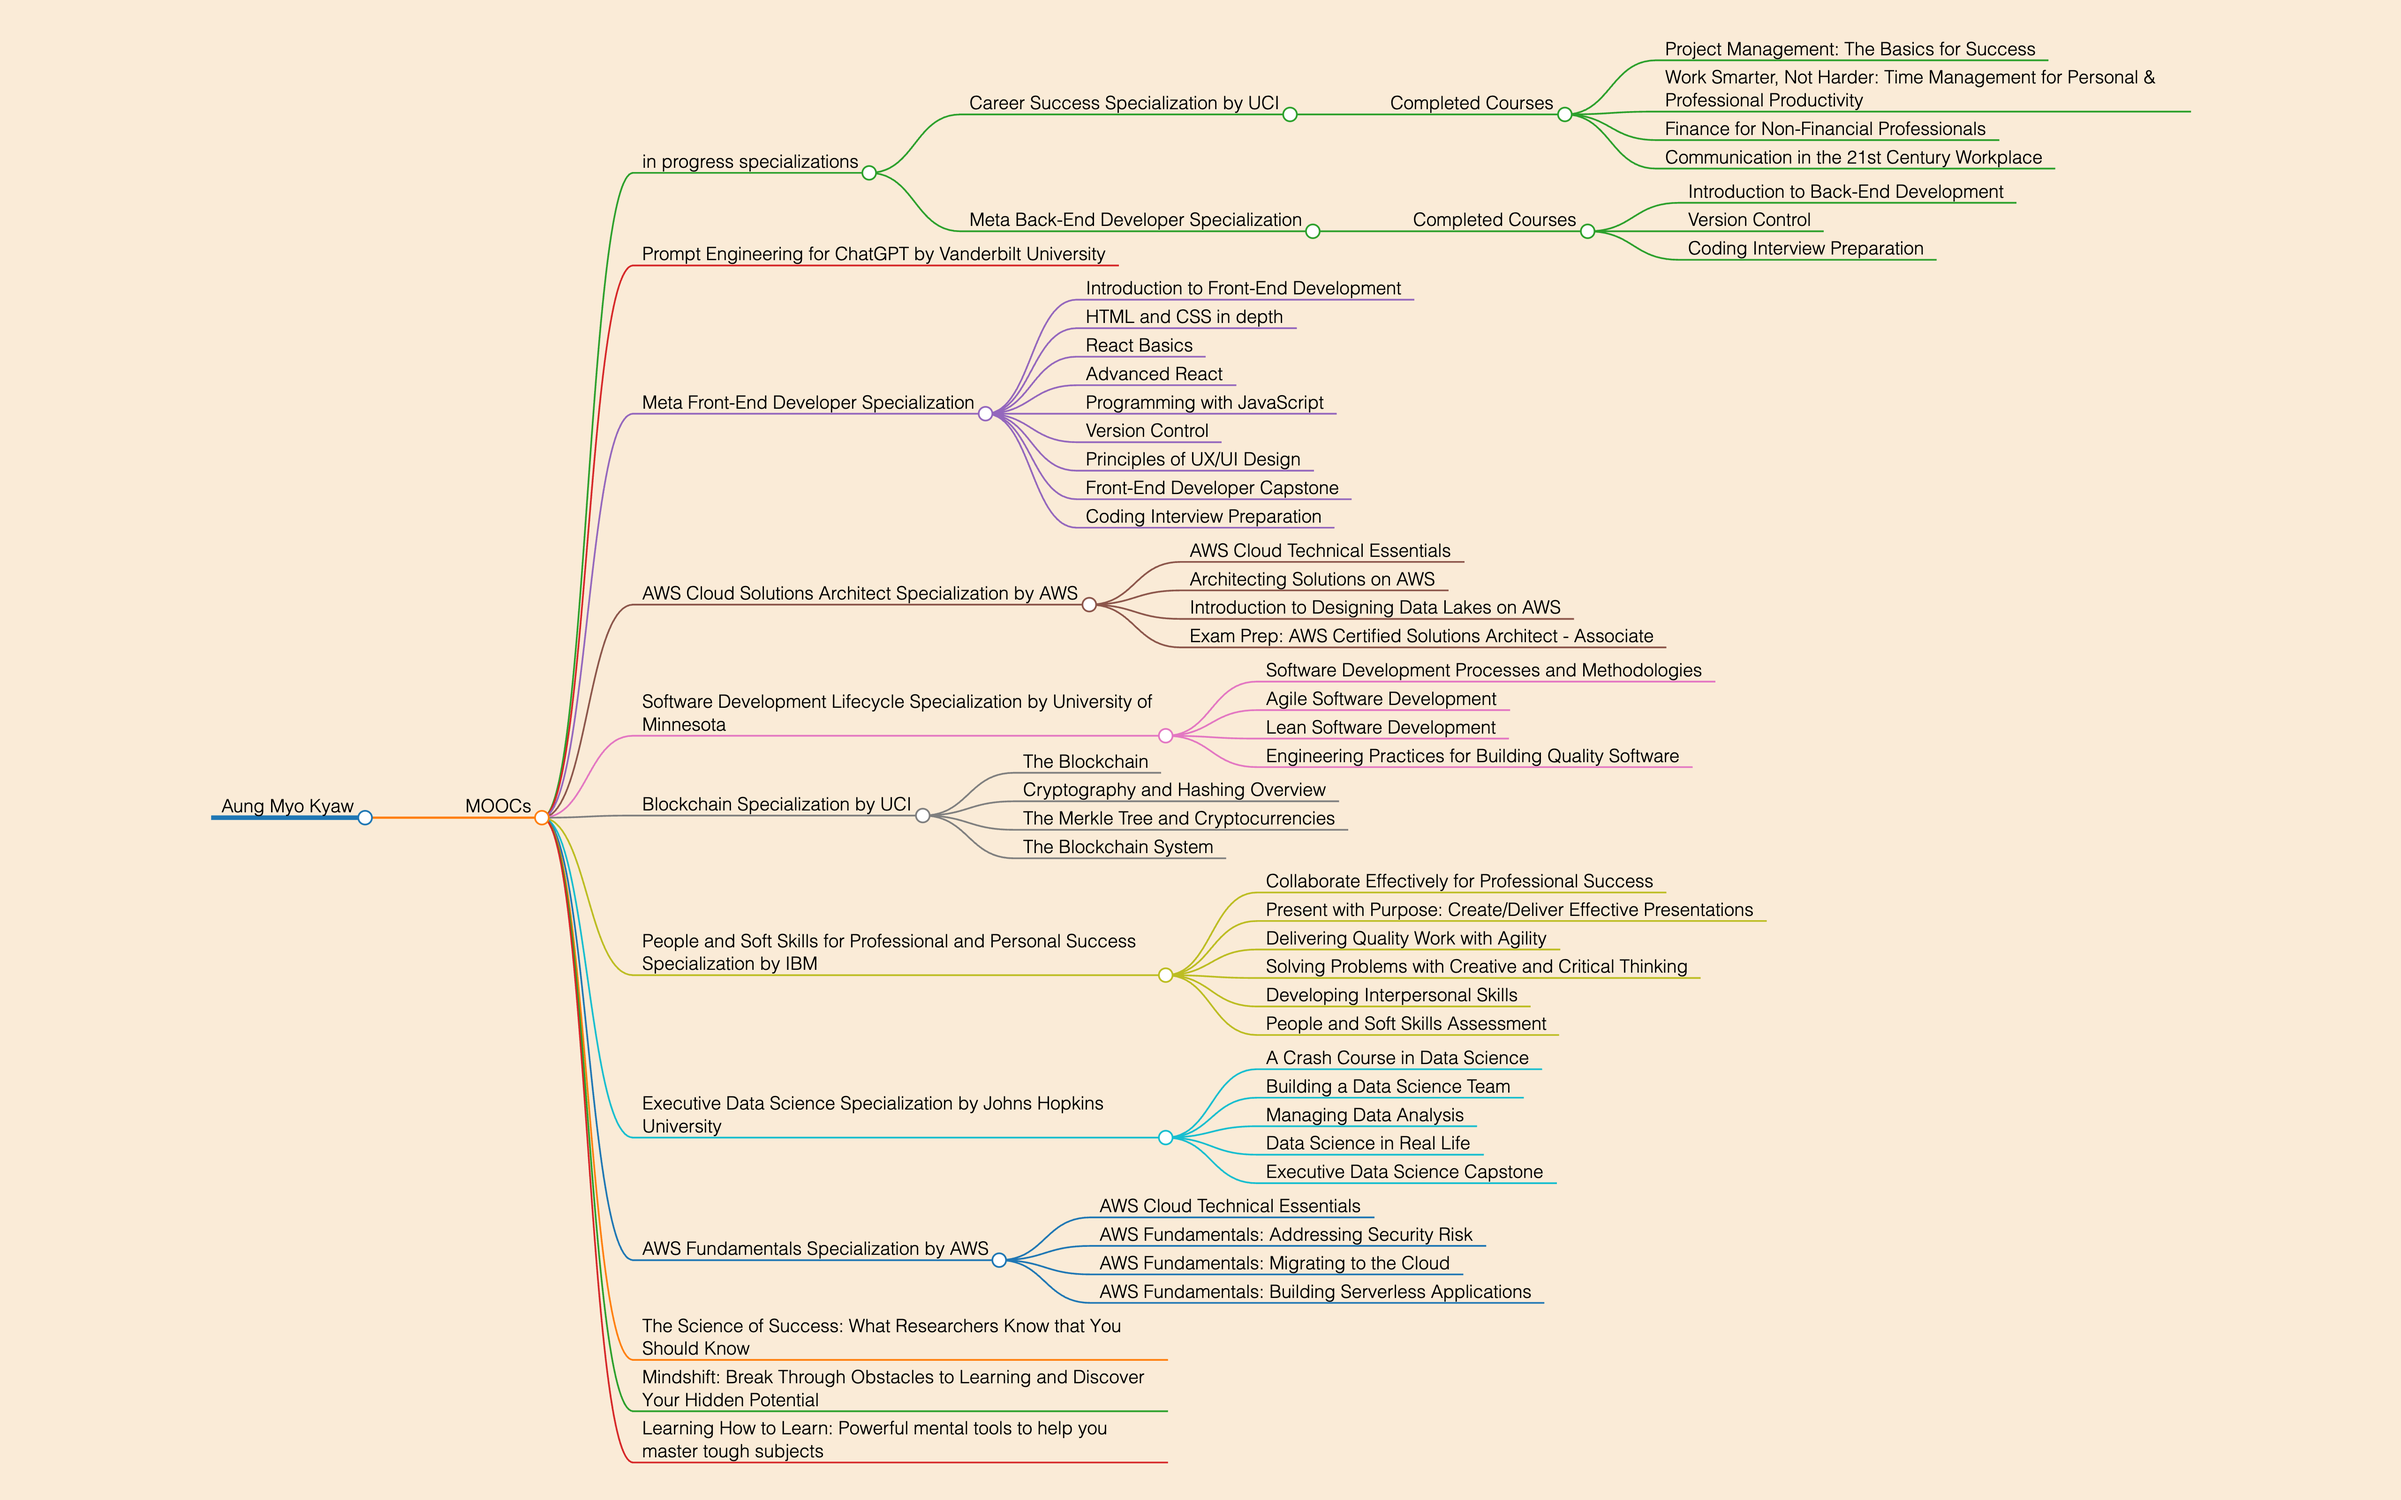
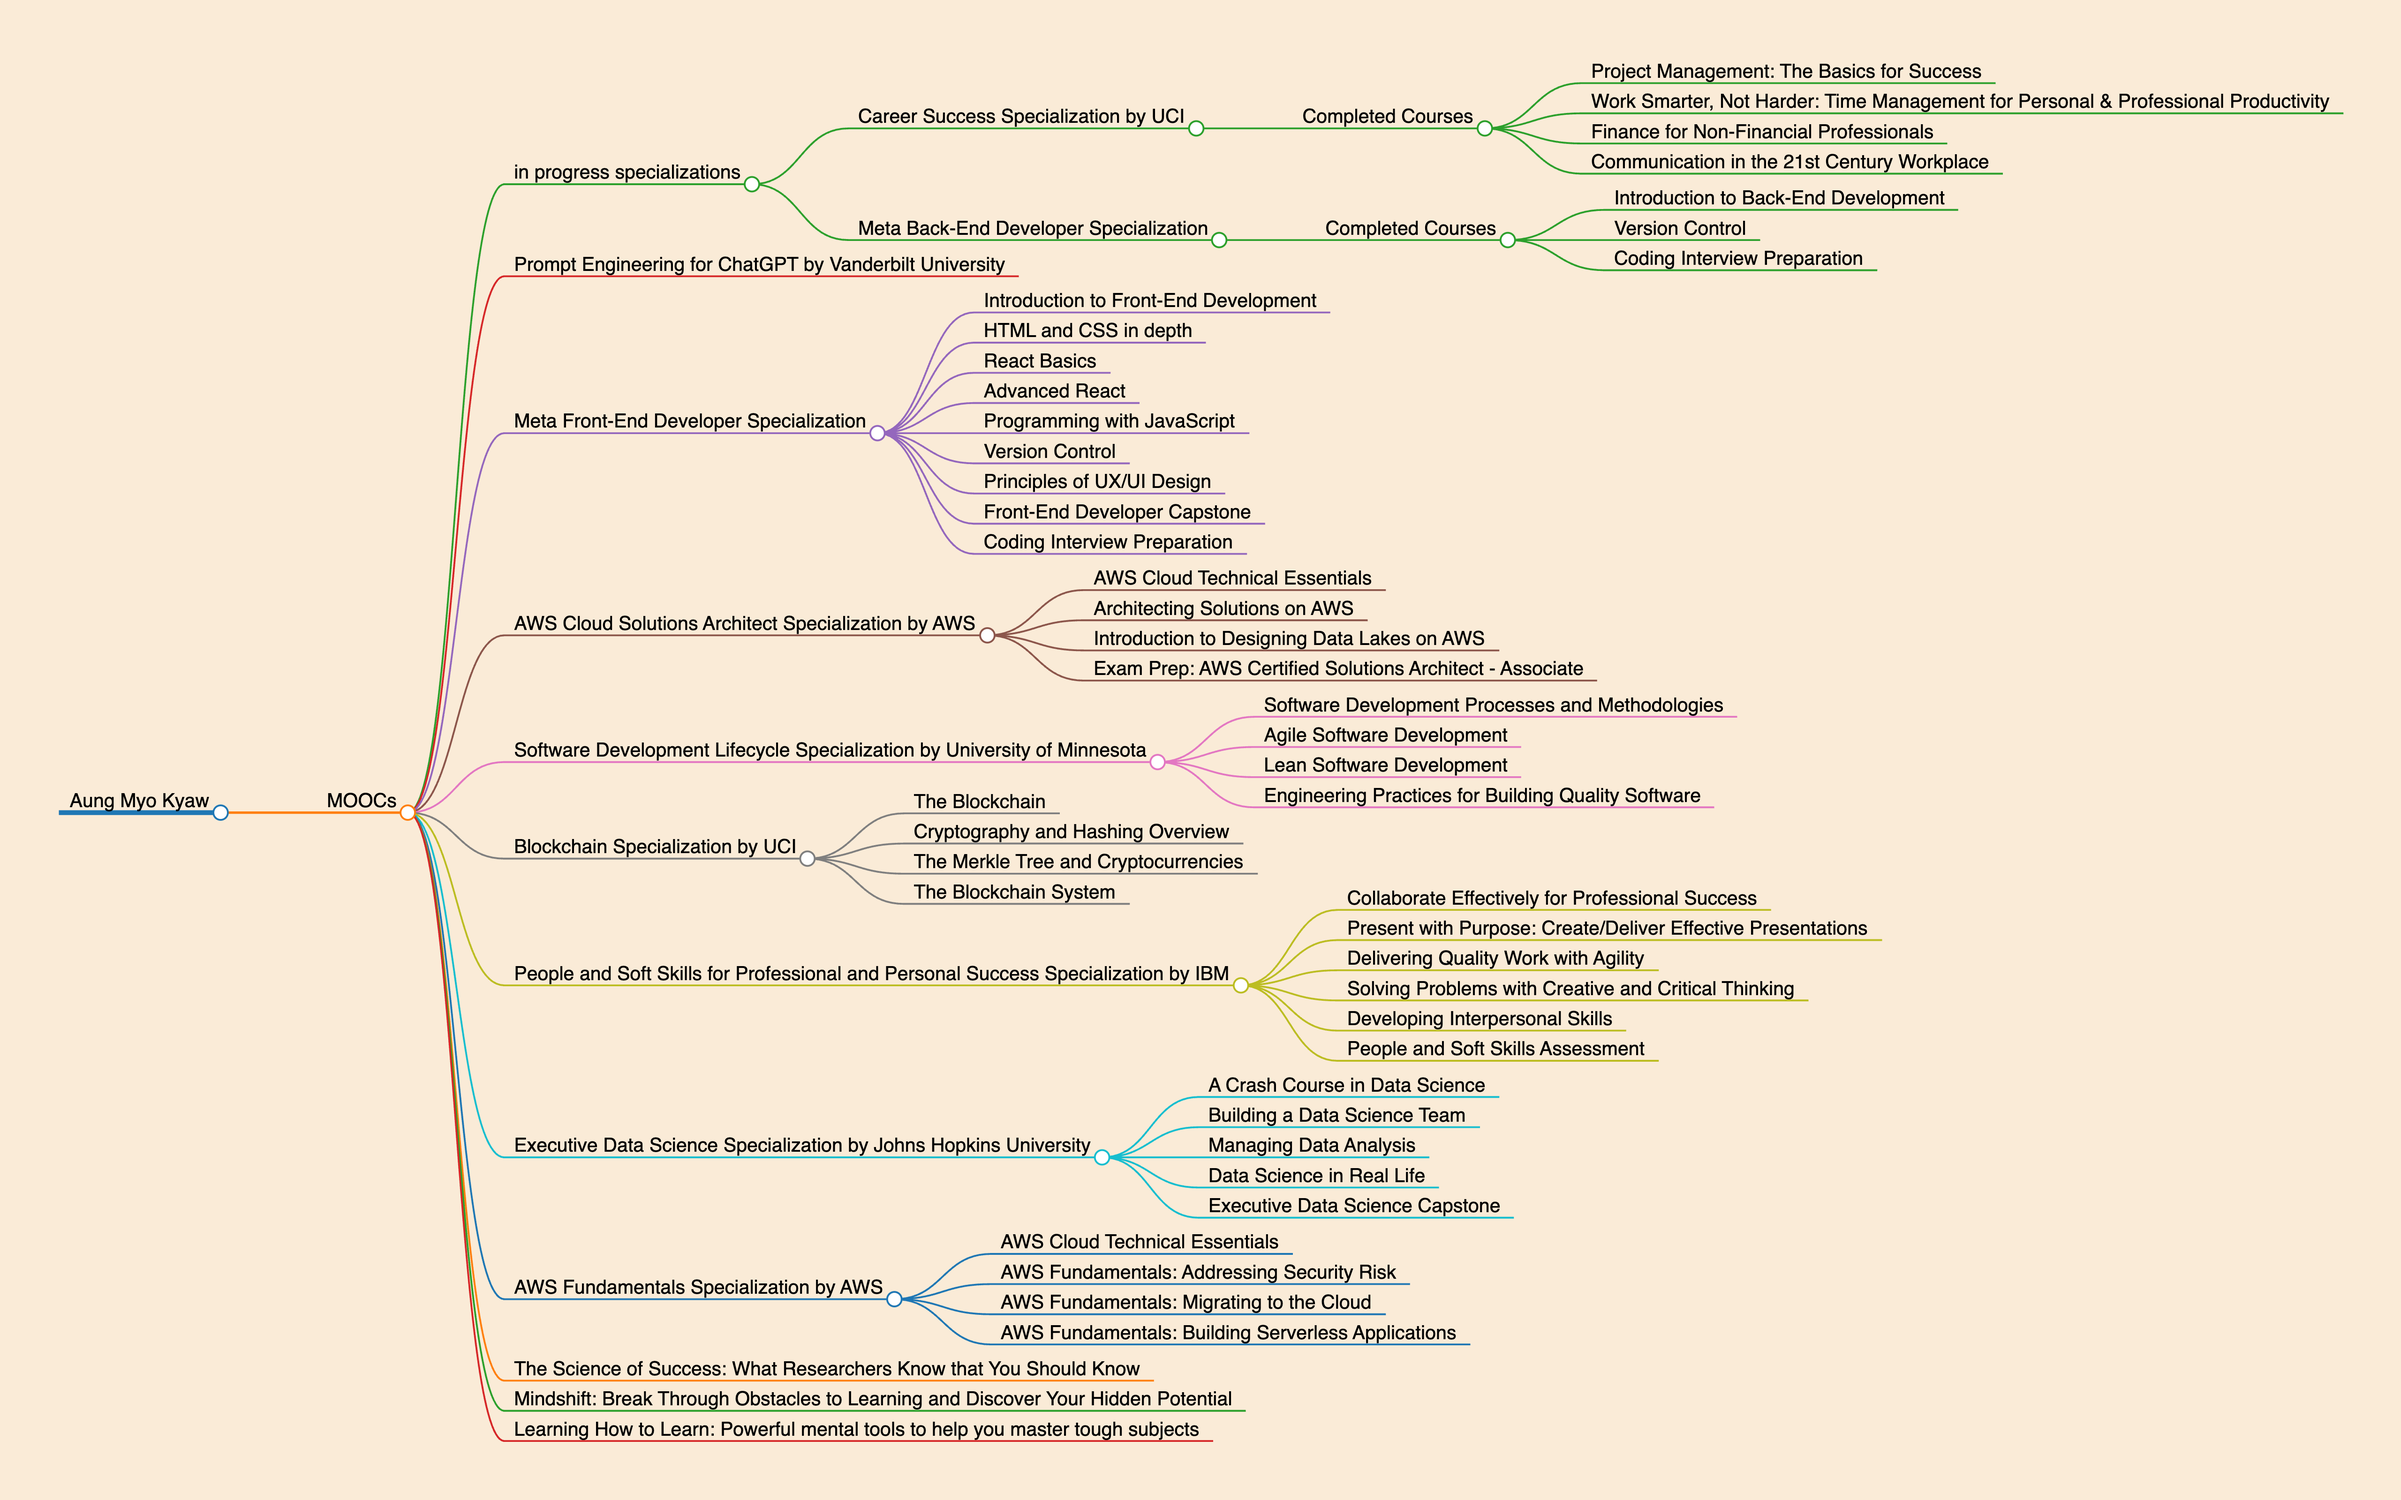
feat: update

Changed region(s): [[0.0312, 0.0312, 0.9688, 0.9688]]

diff --git a/cheerio.js b/cheerio.js
@@ -4,25 +4,25 @@ const fs = require('fs');
 const html = fs.readFileSync('./dist/index.html', 'utf8');
 const $ = cheerio.load(html);
 
-$('head').prepend('<title>MOOCs | Aung Myo Kyaw</title>');
-$('head').prepend('<meta name="description" content="MOOCs | Aung Myo Kyaw" />');
-$('head').prepend('<meta property="og:site_name" content="MOOCs | Aung Myo Kyaw" />');
-$('head').prepend('<meta property="og:type" content="website" />');
-$('head').prepend('<meta property="og:title" content="MOOCs | Aung Myo Kyaw" />');
-$('head').prepend('<meta property="og:description" content="MOOCs | Aung Myo Kyaw" />');
-$('head').prepend('<meta property="og:url" content="https://moocs.aungmyokyaw.com/" />');
-$('head').prepend('<meta property="og:image" content="/screenshot.png" />');
-$('head').prepend('<meta name="twitter:card" content="/screenshot.png" />');
-$('head').prepend('<meta name="twitter:title" content="MOOCs | Aung Myo Kyaw" />');
-$('head').prepend('<meta name="twitter:description" content="MOOCs | Aung Myo Kyaw" />');
-$('head').prepend('<meta name="twitter:url" content="https://moocs.aungmyokyaw.com/" />');
-$('head').prepend('<meta name="twitter:image" content="/screenshot.png" />');
-$('head').prepend('<meta property="og:image:width" content="5120" />');
-$('head').prepend('<meta property="og:image:height" content="3200" />');
-$('head').prepend('<base target="_blank" />');
+$('title').text('MOOCs | Aung Myo Kyaw');
+$('head').append('<link rel="icon" href="/favicon.png" type="image/png" />');
+$('head').append('<meta name="description" content="MOOCs | Aung Myo Kyaw" />');
+$('head').append('<meta property="og:site_name" content="MOOCs | Aung Myo Kyaw" />');
+$('head').append('<meta property="og:type" content="website" />');
+$('head').append('<meta property="og:title" content="MOOCs | Aung Myo Kyaw" />');
+$('head').append('<meta property="og:description" content="MOOCs | Aung Myo Kyaw" />');
+$('head').append('<meta property="og:url" content="https://moocs.aungmyokyaw.com/" />');
+$('head').append('<meta property="og:image" content="/screenshot.png" />');
+$('head').append('<meta name="twitter:card" content="/screenshot.png" />');
+$('head').append('<meta name="twitter:title" content="MOOCs | Aung Myo Kyaw" />');
+$('head').append('<meta name="twitter:description" content="MOOCs | Aung Myo Kyaw" />');
+$('head').append('<meta name="twitter:url" content="https://moocs.aungmyokyaw.com/" />');
+$('head').append('<meta name="twitter:image" content="/screenshot.png" />');
+$('head').append('<meta property="og:image:width" content="5120" />');
+$('head').append('<meta property="og:image:height" content="3200" />');
+$('head').append('<base target="_blank" />');
 
-$('head').prepend(
-  '<style>* {margin: 0;padding: 0;}#mindmap {display: block;width: 100vw;height: 100vh;}a {color: #000 !important;text-decoration: none;}a:hover {color: #2c4c9c !important;text-decoration: underline;}#mindmap {background-color: antiquewhite;}</style>'
-);
+const css = fs.readFileSync('./style.css', 'utf8');
+$('style').text(css);
 
 fs.writeFileSync('./dist/index.html', $.html());

diff --git a/style.css b/style.css
@@ -1,0 +1,21 @@
+body {
+  margin: 0;
+  padding: 0;
+}
+
+.markmap {
+  font-family: 'Inter', sans-serif !important;
+  font-weight: 500 !important;
+  width: 100vw;
+  height: 100vh;
+  background-color: antiquewhite;
+}
+
+a {
+  color: #000 !important;
+  text-decoration: none;
+}
+a:hover {
+  color: #2c4c9c !important;
+  text-decoration: underline;
+}

diff --git a/README.md b/README.md
@@ -1,8 +1,8 @@
 ---
 markmap:
-  embedAssets: true
-  maxWidth: 450
   colorFreezeLevel: 3
+  autoFit: true
+  embedAssets: true
 ---
 
 # [Aung Myo Kyaw](https://www.aungmyokyaw.com)
